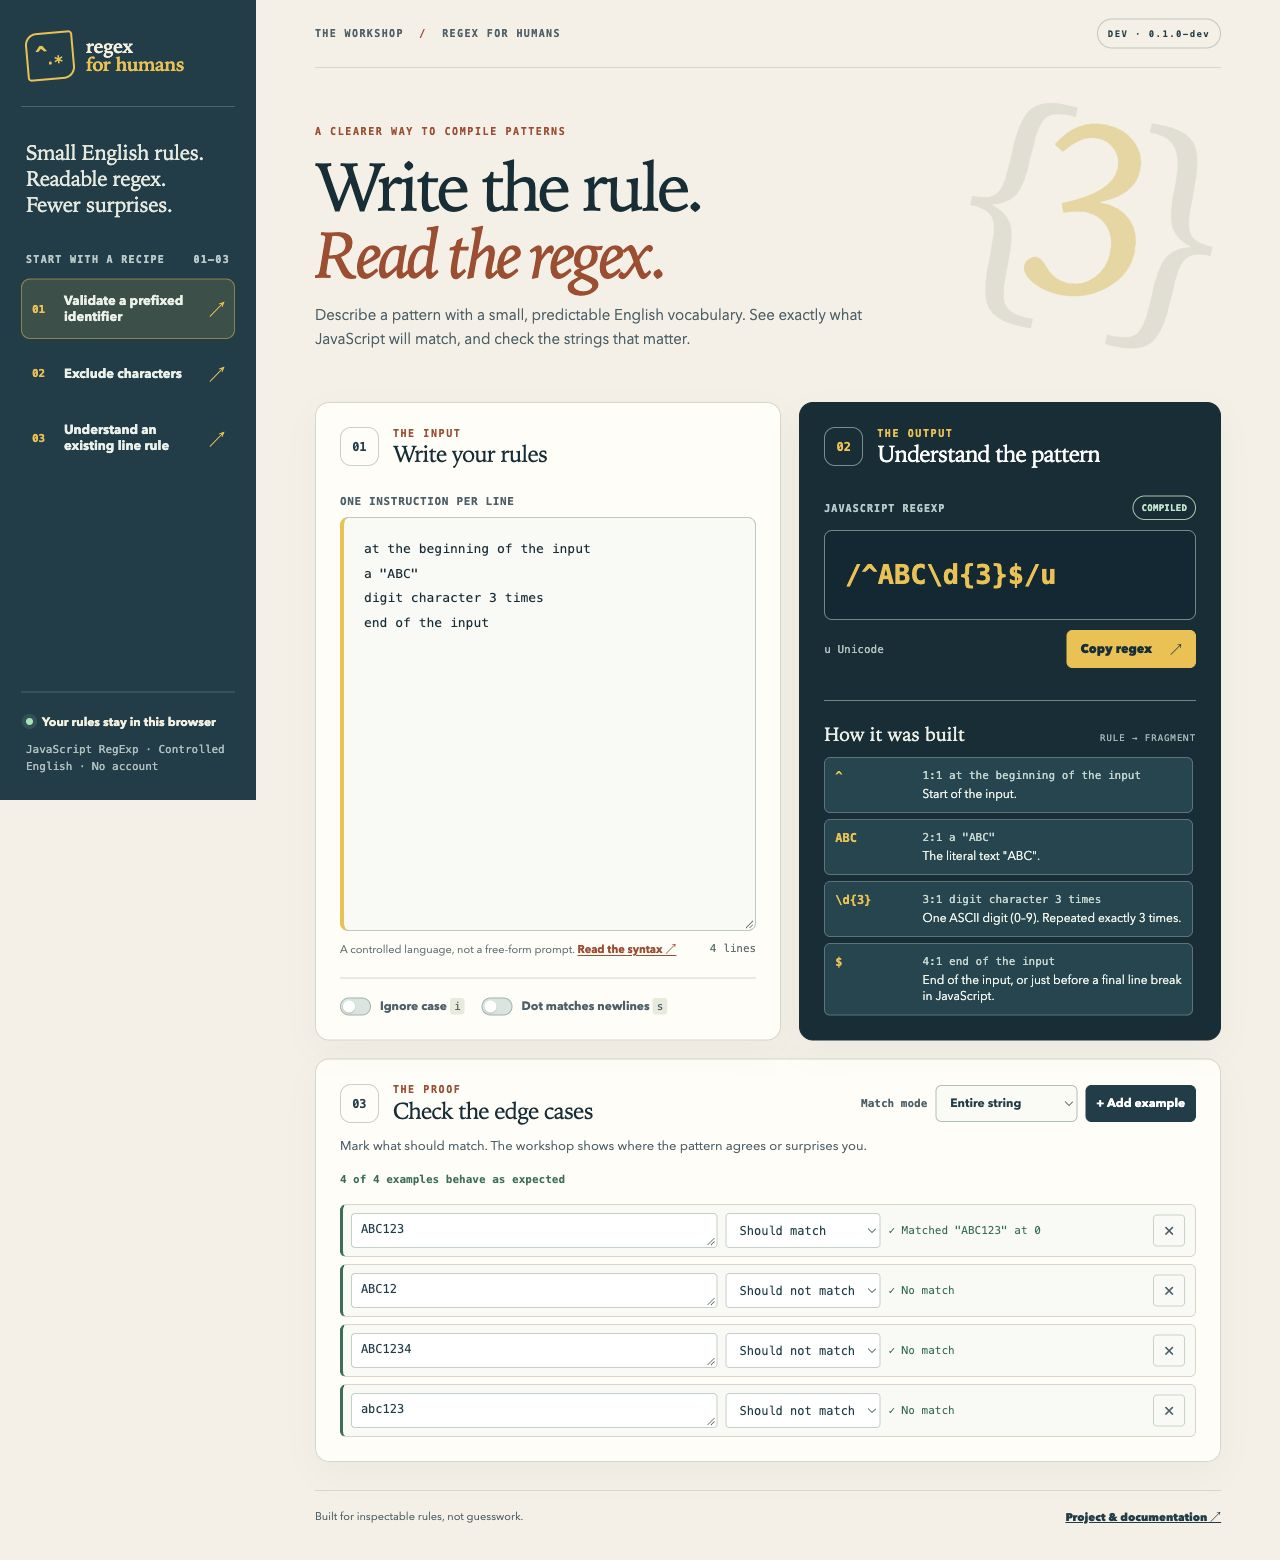
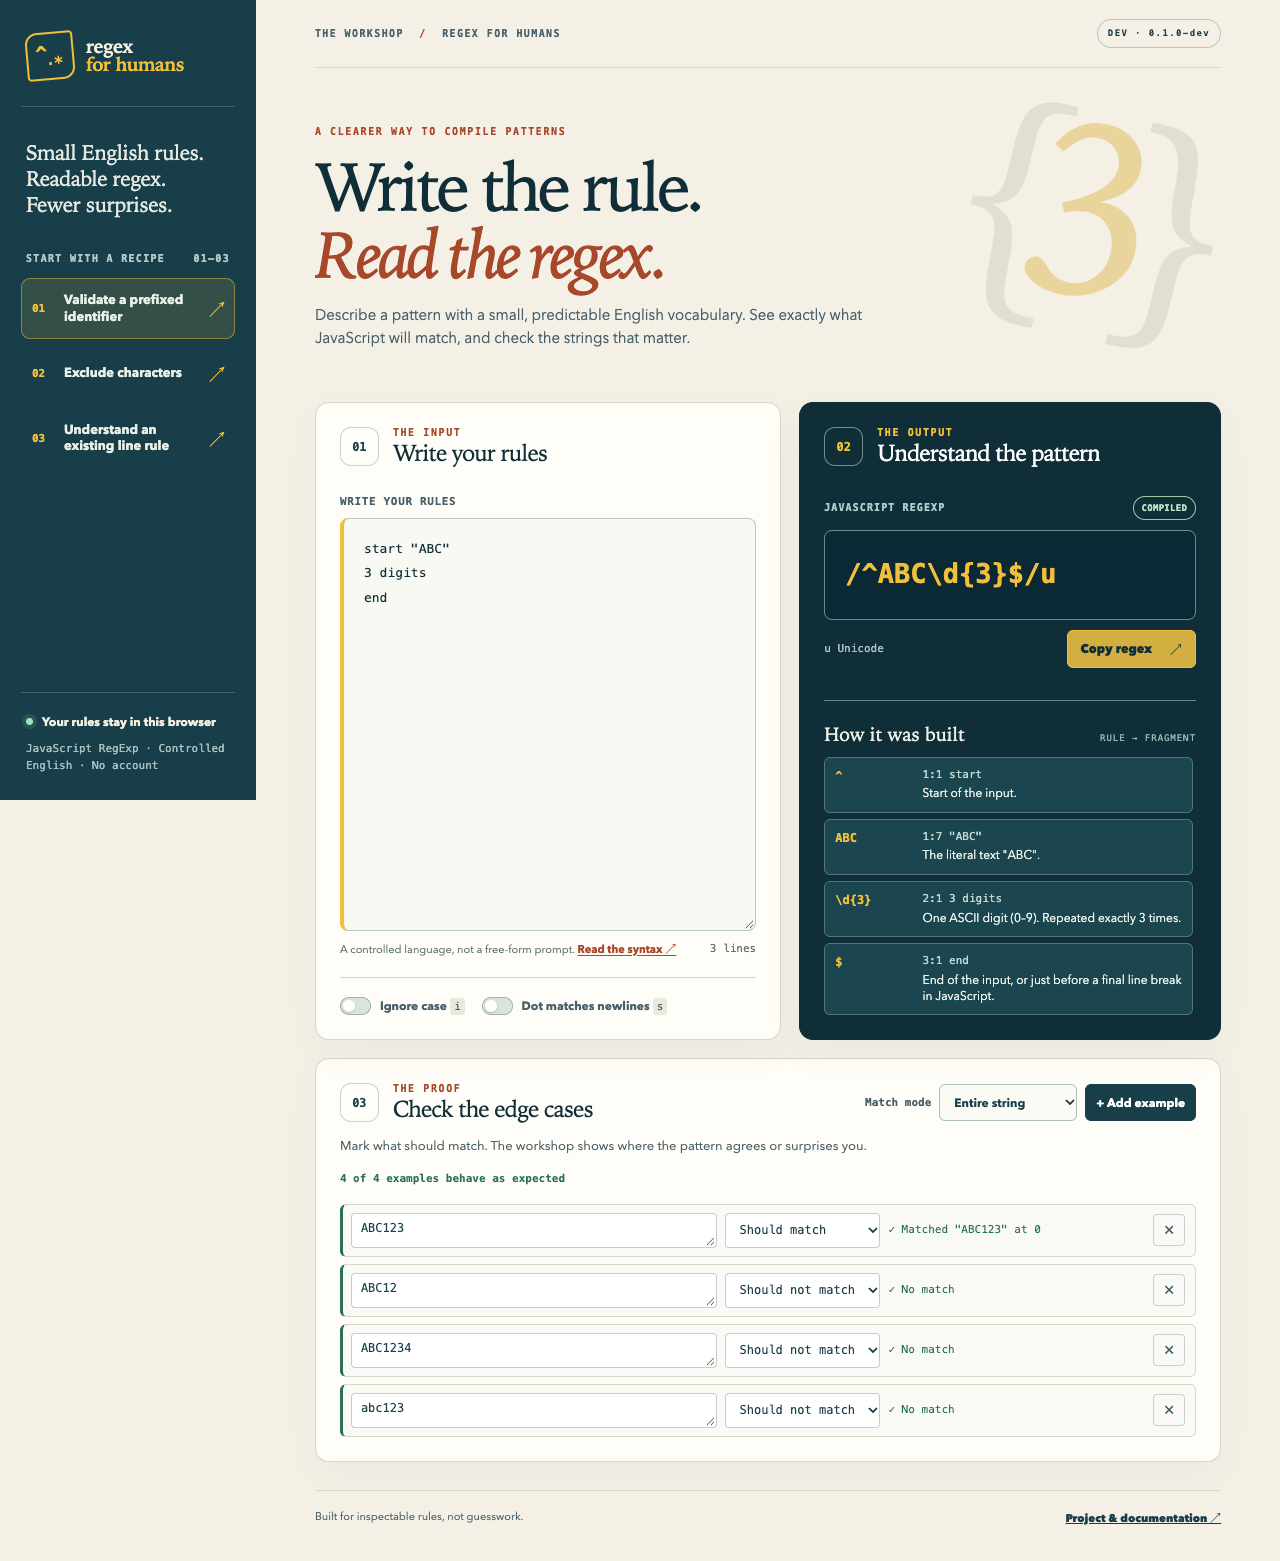
docs(readme): simplify first-use guide

diff --git a/README.md b/README.md
@@ -2,44 +2,31 @@
 
 [![CI](https://github.com/OthmaneBlial/Regex-For-Humans/actions/workflows/ci.yml/badge.svg?branch=main)](https://github.com/OthmaneBlial/Regex-For-Humans/actions/workflows/ci.yml)
 
-Write a small JavaScript regex as explicit English rules. See how each rule becomes a regex fragment, then check examples locally before copying the result.
+**Write a short rule. Get a JavaScript regex you can inspect and test.**
 
-Regex For Humans has a deliberately limited vocabulary. It does not guess from arbitrary English or examples. The same compiler powers a JavaScript library, a CLI and a static browser workshop.
+Regex For Humans uses a small, explicit English vocabulary. It does not guess what arbitrary text means. The same compiler powers a JavaScript library, a CLI, and a local browser workshop.
 
-**Status:** development build. These surfaces run from this repository. The package is not published to npm, the workshop is not publicly deployed, and there is no GitHub Release or standalone binary yet.
+> **Status:** Development build. Not on npm; the workshop is not hosted; no GitHub release or standalone binary.
 
-## A first regex from a clone
+## Try it
 
-With Node.js 22 or newer:
+Requires Node.js 22 or newer.
 
 ```sh
 git clone https://github.com/OthmaneBlial/Regex-For-Humans.git
 cd Regex-For-Humans
 printf 'start "ABC"\n3 digits\nend\n' | node bin/regex-for-humans.js
-# /^ABC\d{3}$/u
 ```
 
-`ABC123` matches; `ABC12`, `ABC1234` and `abc123` do not. The `u` flag is always present, so matching follows JavaScript's Unicode regex mode. Add `--explain` to see the fragment and explanation for every instruction, or `--json` for structured source, flags and source locations.
-
-The library uses the same compiler:
-
-```sh
-node --input-type=module <<'JS'
-import { compile, toRegExp } from './index.js';
-const rules = `start "ABC"
-3 digits
-end`;
-const result = compile(rules);
-console.log(`/${result.source}/${result.flags}`);
-console.log(toRegExp(result).test('ABC123'));
-JS
-# /^ABC\d{3}$/u
-# true
+```text
+/^ABC\d{3}$/u
 ```
 
-Until an npm release exists, use the CLI from this clone or import `./index.js` from a local checkout. There is no downloadable executable to install without Node.
+`ABC123` matches. `ABC12`, `ABC1234`, and `abc123` do not. Add `--explain` to see each rule's regex fragment, or `--json` for structured output and source locations. Run `node bin/regex-for-humans.js --help` for all options.
 
-## Try the browser workshop
+## Open the workshop
+
+From the repository:
 
 ```sh
 npm ci
@@ -47,41 +34,46 @@ npm run build
 npm run serve
 ```
 
-Open **http://127.0.0.1:4174/**. Pick one of three reference recipes, edit a rule, inspect the generated pattern and its explanation, then add positive and negative examples. “Read the syntax” opens a local HTML quick reference. The browser compiles locally and runs example matching in a worker with a timeout. Typed rules and examples are not sent to an application backend; the [security model](docs/SECURITY_MODEL.md) describes the limits and ordinary static-host access logs.
+Open **http://127.0.0.1:4174/**. Choose a recipe, edit its rules, then check positive and negative examples. The compiler runs in the browser; entered rules and examples are not sent to an application backend. Matching runs in a worker with a timeout. See the [security model](docs/SECURITY_MODEL.md).
 
-The workshop has been checked in local Chrome at desktop and mobile viewports. Automated tests cover keyboard navigation, common WCAG A/AA issues, editing, copying, Unicode, multiline cases and worker timeout. Real screen-reader and new-user checks remain open in the [roadmap](ROADMAP.md).
-
-### Real workshop preview
-
-This is the local `0.1.0-dev` build running the prefixed-identifier recipe. The visible rules compile to `/^ABC\d{3}$/u`; one string matches and three are rejected. These screenshots will be refreshed after the remaining user reviews and before a release.
-
-![Desktop workshop showing the source rules, explained regex and four passing positive or negative checks](https://raw.githubusercontent.com/OthmaneBlial/Regex-For-Humans/main/media/screenshots/workshop-desktop-dev.png)
+![Desktop workshop showing the rules start "ABC", 3 digits, end; the generated regex and all four passing examples](media/screenshots/workshop-desktop-dev.png)
 
 <details>
-<summary>View the real mobile workshop capture</summary>
+<summary>Mobile workshop</summary>
 
-![Mobile workshop showing the same rule, generated regex, explanations and example results](https://raw.githubusercontent.com/OthmaneBlial/Regex-For-Humans/main/media/screenshots/workshop-mobile-dev.png)
+![Mobile view of the Regex For Humans workshop](media/screenshots/workshop-mobile-dev.png)
 
 </details>
 
-[Capture provenance and source files](media/screenshots/README.md).
+These are unedited captures of the local development build. [Capture details and checksums](media/screenshots/README.md).
 
-## What the language covers
+## Use the library
 
-| Rule type | Example | JavaScript source |
+```js
+import { compile, toRegExp } from './index.js';
+
+const result = compile('start 3 digits\nend');
+console.log(result.source); // ^\d{3}$
+console.log(toRegExp(result).test('123')); // true
+```
+
+Import `./index.js` from a checkout. The package is not yet available from npm.
+
+## Syntax at a glance
+
+| Rule | Example | JavaScript source |
 | --- | --- | --- |
-| Input or line boundary | `start` | `^` |
-| Character class | `digit` | `\d` |
-| Negative class | `not digit` | `\D` |
+| Input bounds | `start` · `end` | `^` · `$` |
+| Line bounds | `line start` · `line end` | `^` · `$` with `m` |
+| Character | `digit` · `not digit` | `\d` · `\D` |
+| Repeated digits | `3 digits` | `\d{3}` |
+| One or more digits | `digits` | `\d+` |
 | Literal text | `"ABC"` | `ABC` |
-| Character set | `none of: a, b` | `[^ab]` |
-| Repetition | `3 digits` | `\d{3}` |
+| Character set | `one of: a, b` | `[ab]` |
 
-Read the [full language contract](docs/LANGUAGE.md) for exact phrases, flags, escaping, examples and limits. Version 1 targets JavaScript `RegExp` only. It does not offer groups, alternation, lookaround, arbitrary raw regex or reverse regex translation. Unknown or malformed instructions return a line/column diagnostic rather than a partial expression. Test a copied regex in its target runtime, especially if it will process long or untrusted text.
+Longer phrases remain supported. The [language guide](docs/LANGUAGE.md) defines the exact syntax, escaping, flags, limits, and examples. Output targets JavaScript `RegExp`; groups, alternation, lookaround, backreferences, and arbitrary raw regex are outside version 1.
 
-This project is for people who prefer an explicit rule specification and a visible rule-to-fragment explanation. [regex101](https://regex101.com/) and [RegExr](https://regexr.com/) are established interactive regex editors; [JSVerbalExpressions](https://verbalexpressions.github.io/JSVerbalExpressions/) offers a JavaScript builder API, while [grex](https://github.com/pemistahl/grex) starts from examples. These are different workflows. No comparative speed or usability advantage is claimed here.
-
-## Develop and contribute
+## Develop
 
 ```sh
 npm ci
@@ -93,6 +85,6 @@ npx playwright install chromium
 npm run test:browser
 ```
 
-`npm run check` covers format, lint, strict type checking of the compiler/CLI and local documentation links. The current suite has 44 Node tests and 34 browser tests; [testing and compatibility](docs/TESTING.md) records the versions and evidence boundaries. To report a missing phrase or change the grammar, follow [CONTRIBUTING.md](CONTRIBUTING.md) and the [architecture policy](docs/ARCHITECTURE.md). The [product scenarios](docs/PRODUCT.md) define the three reference tasks.
+The current suites contain 44 Node tests and 34 browser tests. [Testing and compatibility](docs/TESTING.md) records versions and evidence limits. See [contribution guide](CONTRIBUTING.md), [architecture](docs/ARCHITECTURE.md), [roadmap](ROADMAP.md), and [MIT license](LICENSE).
 
-Report suspected vulnerabilities through the private channel in [SECURITY.md](SECURITY.md). Licensed under [MIT](LICENSE). The [changelog](CHANGELOG.md) records repository changes; the [roadmap](ROADMAP.md) tracks publication gates and the final real-product demonstration video. The [release preflight](docs/RELEASE-PREFLIGHT.md) describes how the eventual npm package, Pages deployment and GitHub Release will be verified.
+Report security issues through the private process in [SECURITY.md](SECURITY.md). The [changelog](CHANGELOG.md) records project changes.

diff --git a/ROADMAP.md b/ROADMAP.md
@@ -15,13 +15,13 @@ Cocher une tâche uniquement après vérification de tous ses critères. Les dé
 - [x] 2.2 Atelier web local — build statique, 3 recettes, copie réelle, diagnostics, console et requêtes locales vérifiés ; tests navigateur bureau/mobile verts
 - [x] 2.3 Tests positifs et négatifs — 16 tests navigateur verts : ancres, Unicode, saut de ligne, modes, édition et écarts ; isolation contre exécution longue suivie en 3.2
 - [ ] 2.4 Interface et accessibilité — rendu et clavier vérifiés, 12 tests axe/Playwright verts localement le 27 septembre ; lecteur d'écran réel et 3 nouvelles personnes encore requis
-- [x] 3.1 Tests et compatibilité — 44 tests Node revérifiés localement le 27 septembre 2026 (22.23.3, 24.21.0 et 25.9.0) ; 34 tests navigateur Chrome bureau/mobile passés localement le 27 septembre ; CI multi-plateforme vérifiée le 19 septembre ; format/lint/typage strict du noyau et de la CLI, build et `npm ci` vérifiés ; limites de portée dans `docs/TESTING.md`
+- [x] 3.1 Tests et compatibilité — 44 tests Node revérifiés localement le 27 septembre 2026 (22.23.3, 24.21.0 et 25.9.0) ; 34 tests navigateur Chrome bureau/mobile passés localement le 27 septembre ; CI multi-plateforme verte (run `36330529786`) le 27 septembre ; format/lint/typage strict du noyau et de la CLI, build et `npm ci` vérifiés ; limites de portée dans `docs/TESTING.md`
 - [x] 3.2 Bornes et sécurité de l'exécution — limites documentées, worker interrompable, timeout/récupération et entrée HTML testés ; 34 tests navigateur verts le 27 septembre, `npm audit` sans vulnérabilité signalée
 - [ ] 3.3 Architecture et politique de changements — guide, liens et exercice interne vérifiés (`docs/CONTRIBUTION-EXERCISE.md`) ; revue par un contributeur extérieur encore requise
 - [ ] 4.1 README et premier succès — commandes CLI, bibliothèque, build et atelier vérifiées depuis un clone vierge ; rendu GitHub et liens vérifiés ; relecture par un novice encore requise
 - [ ] 4.2 Captures réelles — captures bureau/mobile du build local `0.1.0-dev` ajoutées au README avec provenance et SHA-256 ; captures de la version publiée à refaire après 2.4
 - [ ] 4.3 Contribution et présentation GitHub — politiques sécurité/changelog, modèles d'issues/PR et métadonnées préparés ; formulaires d'issue et signalement privé visibles sur GitHub ; lien public de démo encore absent
[2 lines of base64/hex data omitted]
 - [ ] 5.2 Package publié et atelier déployé — tarball local testé, workflows npm et Pages manuels depuis un tag stable préparés et contrôlés par `actionlint` ; build local chargé sous `/Regex-For-Humans/` avec recette, guide et assets en HTTP 200, sans erreur console ; npm et Pages publics encore absents
 - [ ] 5.3 Décision et validation des binaires — voie npm/Node retenue provisoirement dans `docs/DISTRIBUTION.md` ; besoin de binaire à mesurer dans les séances utilisateurs avant décision finale
 - [ ] 5.4 Release publiée et vérifiée

diff --git a/media/screenshots/README.md b/media/screenshots/README.md
@@ -1,10 +1,10 @@
 # Screenshot evidence
 
-Both files are full-page captures from the real local static workshop, built from commit `208abc6` with `npm run build` and served at `http://127.0.0.1:4174/` on 19 September 2026. Chrome showed the `prefixed-identifier` recipe and the visible `DEV · 0.1.0-dev` label. No interface elements, examples or results were composited or edited. The screenshots contain only project-owned UI and system fonts; no third-party image assets were added.
+Both files are full-page Chrome captures of the local static workshop, built from commit `5924e6e` with `npm run build` and served at `http://127.0.0.1:4174/` on 27 September 2026. They show the `prefixed-identifier` recipe using `start "ABC"`, `3 digits`, and `end`, plus the visible `DEV · 0.1.0-dev` label. No interface elements, examples or results were composited or edited. The screenshots contain only project-owned UI and system fonts.
 
 | File | Viewport | Pixels | Size | SHA-256 |
 | --- | --- | --- | --- | --- |
[4 lines of base64/hex data omitted]
 
-The output `/^ABC\d{3}$/u` and the four expected sample results match `test/fixtures/product-scenarios.json`. These are development evidence only. Re-capture from the final tested build after UX reviews and verify the published version before closing roadmap task 4.2.
+The output `/^ABC\d{3}$/u` and four expected sample results match `test/fixtures/product-scenarios.json`. These are local development captures, not published-release evidence. Re-capture from the final tested build after UX reviews before closing roadmap task 4.2.

diff --git a/docs/TESTING.md b/docs/TESTING.md
@@ -8,7 +8,7 @@ The package declares Node.js `>=22`. The following versions passed all 44 Node t
 | 24.21.0 | `npx -y node@24 --test test/*.test.js` |
 | 25.9.0 | `npm test` after `npm ci` |
 
[2 lines of base64/hex data omitted]
 
 ## Reproduce locally
 
